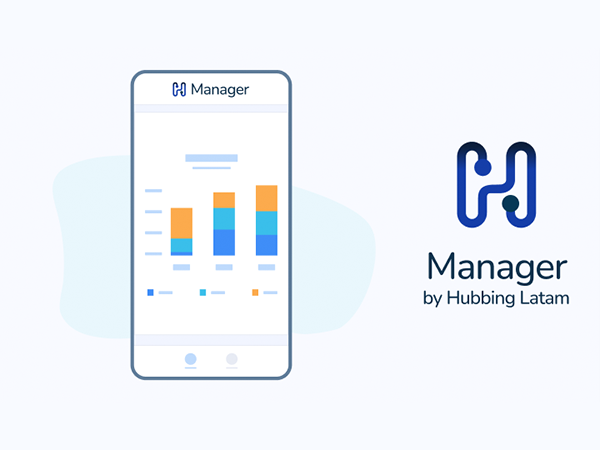
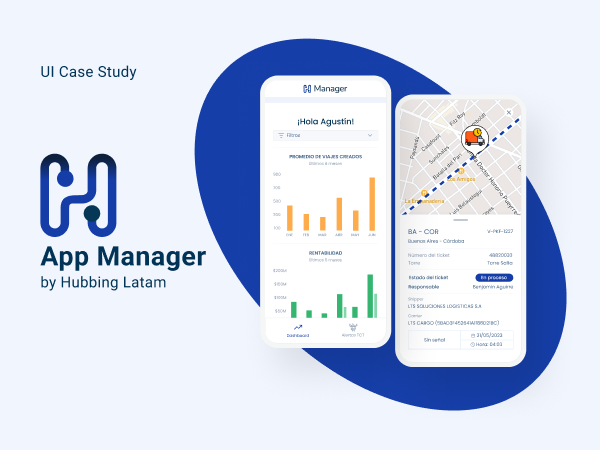
Np: Manager

Changed region(s): [[0.06, 0.0622, 0.96, 0.9333]]

diff --git a/index.html b/index.html
@@ -497,6 +497,19 @@
             </a>
             </div>
           </div>
+
+          <div class="col-sm-12 mb-3 crd">
+            <div class="card shadow"><a href="https://www.behance.net/gallery/199068269/App-Manager-by-Hubbing-Latam" target="_blank" tabindex="-1"><img src="img/portfolio/manager.png" alt="" class="card-img-top">
+              <div class="card-body">
+                <div>
+                <h5 id="manager"> App Manager</h5>
+                <p class="text-muted card-text">Los datos de tu negocio en un solo lugar</p>
+                </div>
+                <button class="card_btn" aria-labelledby="manager">Ir a Behance <span>→</span></button>
+              </div>
+            </a>
+            </div>
+          </div>
           
           <div class="col-sm-12 mb-3 crd">
             <div class="card shadow"><a href="https://www.behance.net/gallery/198662859/Hubbing-Latam-Web-Platform-and-Mobile-Apps" target="_blank" tabindex="-1"><img src="img/portfolio/hubbing.png" alt="" class="card-img-top">
@@ -506,6 +519,20 @@
                 <p class="text-muted card-text">Mejorando procesos logísticos</p>
                 </div>
                 <button class="card_btn" aria-labelledby="hubbing">Ir a Behance <span>→</span></button>
+              </div>
+            </a>
+            </div>
+          </div>
+
+          <div class="col-sm-12 mb-3 crd">
+            <div class="card shadow">
+              <a href="https://www.behance.net/gallery/89936865/Descuentio" target="_blank" tabindex="-1"><img src="img/portfolio/descuentio.png" alt="" class="card-img-top">
+              <div class="card-body">
+                <div>
+                <h5 id="descuentio"> Descuentio</h5>
+                <p class="text-muted card-text">Ahorrá con tus compras del supermercado</p>
+                </div>
+                <button class="card_btn" >Ir a Behance <span>→</span></button>
               </div>
             </a>
             </div>
@@ -523,20 +550,7 @@
             </a>
             </div>
           </div>
-  
-          <div class="col-sm-12 mb-3 crd">
-            <div class="card shadow">
-              <a href="https://www.behance.net/gallery/89936865/Descuentio" target="_blank" tabindex="-1"><img src="img/portfolio/descuentio.png" alt="" class="card-img-top">
-              <div class="card-body">
-                <div>
-                <h5 id="descuentio"> Descuentio</h5>
-                <p class="text-muted card-text">Ahorrá con tus compras del supermercado</p>
-                </div>
-                <button class="card_btn" >Ir a Behance <span>→</span></button>
-              </div>
-            </a>
-            </div>
-          </div>
+
         </div>
 
         <h3 class="mar-top mb-4">Actualizando...</h3>
@@ -570,17 +584,6 @@
               <div class="card-body mh-auto">
                 <div>
                 <h5 id="driver"> App H Driver</h5>
-                <p class="text-muted card-text">Próximamente</p>
-                </div>
-              </div>
-            </div>
-          </div>
-
-          <div class="col-sm-12 mb-3 crd">
-            <div class="card shadow"><img src="img/portfolio/manager.png" alt="" class="card-img-top">
-              <div class="card-body mh-auto">
-                <div>
-                <h5 id="manager"> App H Manager</h5>
                 <p class="text-muted card-text">Próximamente</p>
                 </div>
               </div>

diff --git a/en.html b/en.html
@@ -501,6 +501,19 @@
           </div>
 
           <div class="col-sm-12 mb-3 crd">
+            <div class="card shadow"><a href="https://www.behance.net/gallery/199068269/App-Manager-by-Hubbing-Latam" target="_blank" tabindex="-1"><img src="img/portfolio/manager.png" alt="" class="card-img-top">
+              <div class="card-body">
+                <div>
+                <h5 id="manager"> App Manager</h5>
+                <p class="text-muted card-text">Your business data all in one place</p>
+                </div>
+                <button class="card_btn" aria-labelledby="manager">Go to Behance <span>→</span></button>
+              </div>
+            </a>
+            </div>
+          </div>
+
+          <div class="col-sm-12 mb-3 crd">
             <div class="card shadow"><a href="https://www.behance.net/gallery/198662859/Hubbing-Latam-Web-Platform-and-Mobile-Apps" target="_blank" tabindex="-1"><img src="img/portfolio/hubbing.png" alt="" class="card-img-top">
               <div class="card-body">
                 <div>
@@ -508,6 +521,20 @@
                 <p class="text-muted card-text">Improving logistics processes</p>
                 </div>
                 <button class="card_btn" aria-labelledby="hubbing">Go to Behance <span>→</span></button>
+              </div>
+            </a>
+            </div>
+          </div>
+
+          <div class="col-sm-12 mb-3 crd">
+            <div class="card shadow">
+              <a href="https://www.behance.net/gallery/89936865/Descuentio" target="_blank" tabindex="-1"><img src="img/portfolio/descuentio.png" alt="" class="card-img-top">
+              <div class="card-body">
+                <div>
+                <h5 id="descuentio"> Descuentio</h5>
+                <p class="text-muted card-text">Save on your supermarket purchases</p>
+                </div>
+                <button class="card_btn" >Go to Behance <span>→</span></button>
               </div>
             </a>
             </div>
@@ -525,20 +552,7 @@
             </a>
             </div>
           </div>
-  
-          <div class="col-sm-12 mb-3 crd">
-            <div class="card shadow">
-              <a href="https://www.behance.net/gallery/89936865/Descuentio" target="_blank" tabindex="-1"><img src="img/portfolio/descuentio.png" alt="" class="card-img-top">
-              <div class="card-body">
-                <div>
-                <h5 id="descuentio"> Descuentio</h5>
-                <p class="text-muted card-text">Save on your supermarket purchases</p>
-                </div>
-                <button class="card_btn" >Go to Behance <span>→</span></button>
-              </div>
-            </a>
-            </div>
-          </div>
+
         </div>
 
         <h3 class="mar-top mb-4">Updating...</h3>
@@ -572,17 +586,6 @@
               <div class="card-body mh-auto">
                 <div>
                 <h5 id="driver"> App H Driver</h5>
-                <p class="text-muted card-text">Soon</p>
-                </div>
-              </div>
-            </div>
-          </div>
-
-          <div class="col-sm-12 mb-3 crd">
-            <div class="card shadow"><img src="img/portfolio/manager.png" alt="" class="card-img-top">
-              <div class="card-body mh-auto">
-                <div>
-                <h5 id="manager"> App H Manager</h5>
                 <p class="text-muted card-text">Soon</p>
                 </div>
               </div>
